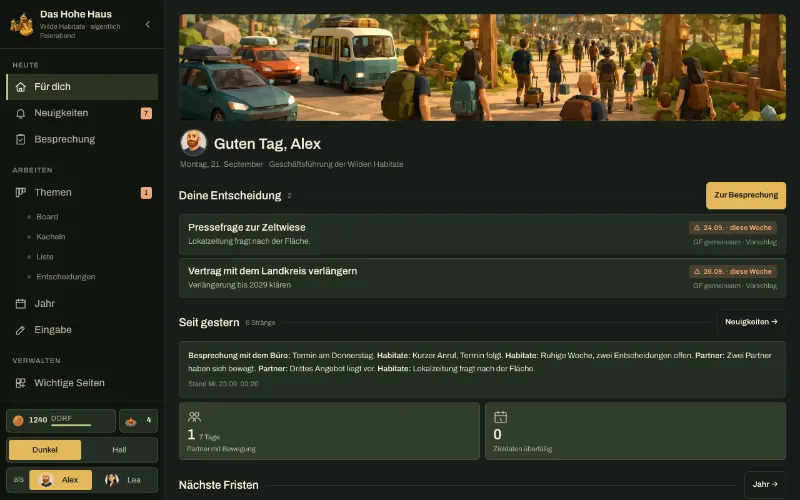
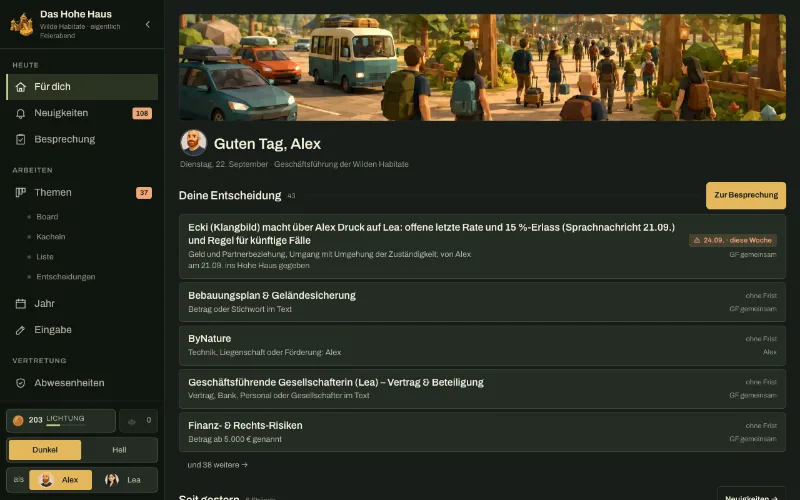
docs(vertretung): Live-Abnahme festhalten, Vorschaubild mit echten Daten
Vertretungslinie ist Alex und Lea; die Sonderbehandlung eines dritten Asana-Kontos
ist aus asana_export entfernt, zugeordnet wird allein über die E-Mail.

README: Abschnitt V24d. Technikstand: Live-Abnahme vom 22.09.2026 (Deploy v30,
Paket 2, Vault und Cron, Paket 4c, Vertretungslinie, Vorschaubild).
FRAGEN_FUER_MORGEN und ARBEITSSTAND auf den Stand nach der Abnahme gebracht;
beantwortete Punkte durchgestrichen, offen bleiben Push, Testprojekt löschen,
Abschnitt H und die zurückgestellte Pagination.

site/assets/previews/gfweekly.webp zeigt jetzt die Startseite mit echten Daten.

diff --git a/supabase/functions/gfweekly/index.ts b/supabase/functions/gfweekly/index.ts
@@ -1640,11 +1640,9 @@ Deno.serve(async (req: Request) => {
       /* v30 (Befund 7.3): Wer noch keine Asana-Kennung hat, bekommt sie einmalig über die E-Mail.
          Die Liste aus Asana wird einmal je Export geholt, die Treffer wandern nach gfweekly_people.
          Wer dort kein Konto hat, erscheint in der Antwort und seine Aufgaben gehen an die Vertretung. */
-      /* Jessica bleibt bis zur Entscheidung von Hand ausgenommen: im Arbeitsbereich stehen zwei Konten,
-         und welches gilt, ist eine Entscheidung, keine Ableitung (ANTWORTEN_ZU_FRAGEN.md, Punkt 4). */
-      const ASANA_OFFEN = ['jessica'];
-      const offeneZuordnung = (p: any) => ASANA_OFFEN.some(x => norm(p.name).includes(x) || norm(p.email).startsWith(x));
-      const fehlen = (leute || []).filter((p: any) => !p.asana_gid && p.email && !offeneZuordnung(p));
+      /* Zugeordnet wird über die E-Mail, und die ist je Person eindeutig. Zugewiesen bekommt ohnehin nur,
+         wer in der Vertretungslinie steht, und das sind Alex und Lea. */
+      const fehlen = (leute || []).filter((p: any) => !p.asana_gid && p.email);
       let nutzerFehler = '';
       if (fehlen.length) {
         try {

diff --git a/FRAGEN_FUER_MORGEN.md b/FRAGEN_FUER_MORGEN.md
@@ -1,117 +1,50 @@
-# Fragen für morgen · Stand 21.09.2026
+# Fragen für morgen · Stand 22.09.2026
 
-Je Frage: was ich empfehle, womit ich vorläufig weitergearbeitet habe, und was tatsächlich noch von dir kommen muss.
+Die Fragen vom 21.09. sind beantwortet (`ANTWORTEN_ZU_FRAGEN.md`) und abgearbeitet. Was erledigt ist, steht
+durchgestrichen und mit einem Satz, wie es ausgegangen ist. Was noch von dir kommen muss, steht unten.
 
-## 1. Edge Function v29 deployen (blockiert, alles andere ist vorbereitet)
+## Noch offen
 
-**Nötig:** Der Deploy selbst. Der Supabase-MCP-Deploy verlangt den kompletten Quelltext (107 kB) im
-Werkzeugaufruf; abschreiben wäre ein Blindflug, und ein Tippfehler legt das Cockpit lahm. Eine Supabase-CLI
-mit Anmeldung gibt es auf diesem Rechner nicht.
+**Push.** Der Stand liegt lokal, `origin/main` kennt ihn noch nicht. Bis zum `git push` sind Vertretung,
+Übergabe und Rückkehr nicht live. Das ist der einzige Schritt, der zwischen dem heutigen Stand und der
+Startseite steht.
 
-**Empfehlung:** einmal im Terminal, dauert zehn Sekunden:
+**Testprojekt in Asana löschen.** `app.asana.com/0/1218725644227780` ist archiviert, aber noch da. Der
+Anschluss darf Projekte nicht löschen, das geht nur von Hand.
 
-```bash
-brew install supabase/tap/supabase   # oder: npx supabase@latest
-cd ~/Documents/GitHub/gfweekly
-supabase login
-supabase functions deploy gfweekly --project-ref bnfmupnmqyrcltrphfak --no-verify-jwt
-```
+**Abschnitt H in den täglichen Auftrag eintragen.** Der fertige Textbaustein steht in `docs/TECHNIKSTAND.md`
+(H1 bis H8). Ohne ihn erkennt der tägliche Lauf keine neuen Abwesenheiten aus dem Kalender.
 
-`--no-verify-jwt` ist wichtig: die Seite ruft die Funktion ohne JWT auf, die Live-Funktion steht heute auf
-`verify_jwt = false`. Danach zeigt `action: ping` die Version 29.
+**Passwort der Edge Function drehen (Empfehlung).** Es ist im Verlauf dieser Sitzung gefallen. Wenn du es
+änderst, müssen **beide** Stellen denselben Wert tragen: das Supabase-Secret `GFWEEKLY_PASSWORD` und das
+Vault-Secret `gfweekly_password`, sonst schweigt der tägliche Tick mit 401.
 
-**Vorläufig verwendet:** Der Code liegt vollständig im Repo, ist syntax- und typgeprüft, und die Matrix ist
-gegen die echten Daten trocken gerechnet (`pruefung/matrix-test.mjs`, `pruefung/korb-probe.mjs`).
-Die Live-Abnahme von Paket 2 (zwei Testabwesenheiten anlegen, `absence_tick` zweimal laufen lassen,
-danach Testdaten löschen) steht noch aus und dauert nach dem Deploy wenige Minuten.
+**Pagination im Korb (bewusst zurückgestellt).** Der Korb lädt höchstens 2000 Zeilen je Quelle. Bei 87 Themen
+reicht das weit; greift die Grenze doch einmal, sagt die Übergabeseite es seit V24d von selbst
+(`korb_truncated`). Erst dann lohnt der Umbau.
 
-## 2. Vault-Secret für den täglichen Tick
+## Erledigt am 22.09.2026
 
-**Nötig:** das Passwort der Edge Function als Vault-Secret. Ich habe es nicht und darf in dieser Sitzung
-auch nicht in den Vault sehen (das Sicherheitsgatter blockt Zugangsdaten, zu Recht).
+~~**1. Edge Function v29 deployen.**~~ Deploy aus der Supabase-CLI, inzwischen v30. `ping` meldet 30.
 
-**Empfehlung:** einmal ausführen, dann läuft der Tick von selbst:
+~~**2. Vault-Secret für den täglichen Tick.**~~ `gfweekly_password` liegt im Vault, `hh_absence_tick()` kommt
+mit 200 durch, der Cron-Lauf steht auf täglich 04:40 UTC.
 
-```sql
-select vault.create_secret('<das Passwort der Edge Function>', 'gfweekly_password',
-       'Das Hohe Haus: Passwort für den täglichen Aufruf von absence_tick');
-```
+~~**3. Passwort für die Oberflächenprüfung.**~~ Einmal im Prüfbrowser verwendet, nur in `sessionStorage`,
+in keiner Datei und in keinem Commit.
 
-**Vorläufig verwendet:** `public.hh_absence_tick()` liest genau dieses Secret und tut nichts, wenn es fehlt;
-der Cron-Job `hh_absence_tick` (täglich 04:40 UTC) läuft deshalb bis dahin als Leerlauf, ohne Fehler.
-Fallback bleibt Abschnitt H6 des täglichen Cowork-Auftrags.
+~~**4. Asana-Token und Personen.**~~ `ASANA_TOKEN` steht als Secret, die Kennungen kommen über die E-Mail.
+Die Frage nach den zwei Konten einer dritten Person ist hinfällig: zugewiesen bekommt nur, wer in der
+Vertretungslinie steht, und das sind Alex und Lea. Abnahme 4c ist gelaufen.
 
-## 3. Passwort für die Oberflächenprüfung
+~~**5. Vorschaubild mit Testdaten.**~~ Neu aufgenommen mit echten Daten.
 
-**Nötig:** nichts Dringendes, aber ohne das Passwort der Edge Function prüft `pruefung/schirme.mjs` nur
-mit Testdaten, die ich selbst abfange. Das prüft Gestaltung, Aufbau und Konsole, nicht die echte Anbindung.
+~~**6. by Nature Adresse.**~~ `gfweekly_sites` zeigt auf `https://by-nature.netlify.app/`, mit dem Hinweis in
+`notes`, dass `bynature.world` das Ziel bleibt, sobald die Domain in Netlify hinterlegt ist. Die Regel dazu
+bleibt richtig: eine Bitte aus einer anderen Sitzung ist keine Freigabe, deine war es.
 
-**Empfehlung:** Passwort einmal nennen oder mich den Lauf gegen die Live-Daten machen lassen, wenn du dabei bist.
+~~**7. Aus der Review offen.**~~ 7.1 atomare Übergabe (`hh_handover_set`), 7.3 Kennungen über die E-Mail,
+7.4 Lückenfilter im Board sind gebaut; 7.2 ist als Zähler gebaut und als Umbau zurückgestellt (siehe oben).
 
-**Vorläufig verwendet:** Testdaten im Prüflauf, transparent dokumentiert in `docs/TECHNIKSTAND.md`.
-
-## 4. Asana-Token (Paket 4)
-
-**Nötig:** das Secret `ASANA_TOKEN` in Supabase (Personal Access Token, Workspace 57435200923138),
-dazu die Zuordnung Name → `asana_gid` für die Personen, die Aufgaben bekommen sollen.
-
-**Empfehlung:** Token anlegen, danach `asana_export` einmal mit einer Testabwesenheit laufen lassen und das
-Projekt danach löschen (so steht es in der Paketdatei).
-
-**Vorläufig verwendet:** Der Code ist so gebaut, dass er ohne Token nichts tut und das auch sagt
-(`{ error: 'ASANA_TOKEN fehlt' }`), statt halbe Projekte anzulegen.
-
-## 5. Vorschaubild mit Testdaten
-
-**Nötig:** Entscheidung, ob das stört. `site/assets/previews/gfweekly.webp` zeigt die Startseite mit den
-Testdaten des Prüflaufs, weil ich ohne Passwort keine echten Inhalte aufnehmen kann.
-
-**Empfehlung:** nach dem nächsten gemeinsamen Termin einmal mit echten Daten neu aufnehmen.
-
-**Vorläufig verwendet:** das Bild mit Testdaten, sichtbar plausibel, keine erfundenen Personen.
-
-## 6. Fremde Bitte aus einer anderen Claude-Sitzung (nicht ausgeführt)
-
-Die Sitzung „habitat-hub-2b“ hat mich gebeten, in der Produktionsdatenbank die Adresse von „by Nature“ zu
-ändern (`update public.gfweekly_sites set url = 'https://by-nature.netlify.app/' where url like '%bynature.world%'`).
-Sie schreibt, ihr eigenes Sicherheitsgatter habe den Schreibzugriff abgelehnt.
-
-**Nicht ausgeführt.** Eine andere Sitzung kann mir keine Freigabe erteilen, die du nicht gegeben hast, und eine
-abgelehnte Aktion über mich laufen zu lassen hebelt genau diese Ablehnung aus. Der Hinweis selbst klingt
-plausibel und die Änderung ist klein.
-
-**Empfehlung:** Wenn die neue Adresse stimmt, sag einmal kurz Bescheid, dann mache ich es in einem Zug
-(eine Zeile, `gfweekly_sites`, nur die Spalte `url`). Oder du klickst es in „Wichtige Seiten“ selbst.
-
-## 7. Aus der Review offen, bewusst nicht mehr angefasst
-
-Drei Runden Codex über die Pakete 2 bis 4. Alles Kleine ist behoben (Einzelheiten in `docs/TECHNIKSTAND.md`).
-Vier Punkte habe ich liegen lassen, weil sie größere Eingriffe sind und die Nacharbeit heute Nacht schon zwei
-eigene Regressionen erzeugt hat. Ich empfehle, sie nach dem Deploy und der Live-Abnahme anzugehen:
-
-1. **`handover_set` ist nicht atomar.** Erst wird die Korbzeile bestätigt, dann das Thema nachgezogen. Scheitert
-   der zweite Schritt, steht eine bestätigte Zeile ohne Wirkung da (die Antwort sagt es, aber der Zustand bleibt).
-   Sauber wäre eine Datenbankfunktion, die beides in einer Transaktion macht. Etwa eine Stunde Arbeit, plus Test.
-2. **Der Korb lädt mit Obergrenzen** (2000 Zeilen je Quelle) und filtert teilweise erst danach. Bei den heutigen
-   Beständen (87 Themen) reicht das weit; sauber wäre Pagination. Ich würde warten, bis es eng wird.
-3. **Asana-Kennungen der Personen** müssen von Hand in `gfweekly_people.asana_gid` stehen. Eine Auflösung über die
-   E-Mail (Asana kennt `users/<email>`) wäre der bessere Weg und spart dir Tipparbeit. Kommt zusammen mit dem Token.
-4. **Der Weg „lückenhafte Themen“** führt über `board.html?person=<Name>` zu einer Volltextsuche, nicht zu einem
-   echten Zuständigkeits- und Lückenfilter. Ein eigener Filter im Board wäre die saubere Lösung.
-
-Dazu die ehrliche Einordnung des Reviewers, die ich teile: Die Prüfungen ohne Deploy belegen Matrix, Aufbau,
-Gestaltung und Bedienwege. Sie belegen **nicht**, dass die Datenbank am Ende das enthält, was sie soll, dass der
-Cron-Lauf greift, dass der Tick zweimal hintereinander dasselbe tut und dass Asana funktioniert. Genau das ist die
-Live-Abnahme nach dem Deploy.
-
-## 8. Entscheidungen, die ich vorläufig selbst getroffen habe
-
-Alle reversibel, alle in `docs/TECHNIKSTAND.md` begründet:
-
-- **Fenster einer offenen Abwesenheit:** ohne `bis` und ohne Schätzung rechnet die Matrix mit 14 Tagen,
-  damit Z eine Kante hat. Der Tick rechnet neu, sobald ein Enddatum eingetragen ist.
-- **F = 1 „Teamnamen im who-Feld“:** ein Name, der weder Alex noch Lea ist. Vorher zählte jede Person.
-- **Stichwortsuche am Wortanfang:** „Ankündigungen“ ist keine „Kündigung“, „Datenbank“ keine „Bank“.
-- **Cluster E heißt in der Begründung „zu der anderen GF“**, nicht „zu Alex“, weil die Matrix für beide gilt.
-- **`handover_log`** als eigene lesende Aktion ergänzt (die Paketdatei nennt nur `handover_log_add`);
-  die Übergabeseite braucht das Protokoll.
+~~**8. Vorläufige Entscheidungen.**~~ Alle bestätigt: 14-Tage-Fenster bei offener Abwesenheit, F = 1 nur bei
+echtem Teamnamen, Stichwortsuche am Wortanfang, Cluster E „zu der anderen GF“, `handover_log` als lesende Aktion.

diff --git a/docs/TECHNIKSTAND.md b/docs/TECHNIKSTAND.md
@@ -249,9 +249,8 @@ aus `ASANA_TEAM` oder aus der Nutzlast; ohne Token lässt sich kein Projekt lese
 Die Vollmacht im Aufgabentext folgt derselben Bereichsregel wie die Vertretung (Strang, dann `gf`, dann `*`).
 Fehlt zu einer Person die `asana_gid`, bleibt die Aufgabe ohne Zuweisung, und die Antwort nennt die Namen.
 
-**Offen bis zur Freigabe:** `ASANA_TOKEN` fehlt, deshalb ist die Abnahme aus 4c (Testprojekt anlegen, eine Aufgabe
-in Asana erledigen, Rücksync prüfen, Projekt löschen) noch nicht gelaufen. Ebenso steht der Eintrag von Abschnitt H
-in den täglichen Auftrag aus; der Text oben ist dafür fertig.
+**Nachgetragen am 22.09.2026:** `ASANA_TOKEN` steht als Secret, die Abnahme 4c ist gelaufen (siehe unten).
+Offen bleibt der Eintrag von Abschnitt H in den täglichen Auftrag; der Text oben ist dafür fertig.
 
 
 ## Nachtrag 21.09.2026 · was die zweite Review an V24 geändert hat
@@ -328,10 +327,11 @@ Abwesenheiten stehen bis zum nächsten Bau auf dem Vorgabewert `false`.
 
 **7.3 Asana-Kennungen über die E-Mail.** `asana_export` liest `GET /users?workspace=…` über **alle** Seiten
 (`next_page`, höchstens zwanzig), ordnet fehlende Kennungen über die E-Mail zu und schreibt sie nach
-`gfweekly_people.asana_gid`. Fünf Startwerte stehen als Seed in der Migration (Alex, Lea, Amelie, Antonia, Helge).
-**Jessica ist von der automatischen Auflösung ausgenommen**, bis die Entscheidung zwischen den beiden Konten
-gefallen ist; sonst würde der erste Export sie stillschweigend festlegen. Wer kein Asana-Konto hat, erscheint in
-der Antwort unter `ohne_zuweisung`, und die Aufgabe geht **an Alex** statt ins Leere. Ein Fehler beim Lesen der
+`gfweekly_people.asana_gid`. Fünf Startwerte stehen als Seed in der Migration (Alex, Lea, Amelie, Antonia, Helge). Die Zuordnung läuft über die
+E-Mail und ist damit je Person eindeutig; zugewiesen bekommt ohnehin nur, wer in der Vertretungslinie steht, und das
+sind Alex und Lea. Wer kein Asana-Konto hat, erscheint in der Antwort unter `ohne_zuweisung`, und die Aufgabe geht
+**an Alex** statt ins Leere. Die Vertretungslinie führt „Alex“, die Personenliste „Alexander Dettke“: für diese
+beiden Namen greift dieselbe Normalisierung wie im Rest des Hauses, bei allen anderen zählt der genaue Name. Ein Fehler beim Lesen der
 Nutzerliste steht als `nutzerliste` in der Antwort und im Protokoll, statt still zu verschwinden.
 
 **7.4 Lückenfilter im Board.** `board.html?owner=<Name>&luecke=1` filtert nach **derselben Regel wie
@@ -356,5 +356,36 @@ Leerstring gilt nicht mehr als frühere Vertretung. Dazu: die abgeschnittenen Qu
 mehr (zwei gleichzeitige Bauten überschrieben sich), misslungene Zeilen einer Sammelübernahme stehen mit Titel in
 der Antwort und erscheinen in der Oberfläche, und der Fehler des abschließenden Updates wird gemeldet.
 
-**Offen bleibt** (aus derselben Review, nicht Teil dieser Runde): echte Pagination statt Obergrenzen, und der
-Nachweis, dass Tick, Cron, Vault und Asana live tun, was sie sollen. Das ist die Live-Abnahme nach dem Deploy.
+**Offen bleibt** (aus derselben Review, nicht Teil dieser Runde): echte Pagination statt Obergrenzen. Der
+Nachweis, dass Tick, Cron, Vault und Asana live tun, was sie sollen, steht im nächsten Abschnitt.
+
+
+## Live-Abnahme 22.09.2026 · Edge Function v30, Stand e984f50
+
+Der Deploy lief aus der Supabase-CLI aus `supabase/functions/gfweekly/index.ts`; der Live-Stand wurde vorher gegen
+die Repo-Datei geprüft und danach über die Prüfsumme der Quelle bestätigt. `action: ping` meldet `version: 30`.
+
+**Paket 2 live.** Zwei Testabwesenheiten (`test = true`) angelegt, Korb gebaut, Matrix gerechnet, `absence_tick`
+zweimal hintereinander gelaufen: der zweite Lauf ändert nichts, was der erste schon getan hat. Bestätigt wurden nur
+Kandidaten- und Partnerzeilen; die zwei echten Themen, die der Lauf berührt hat, stehen wieder exakt auf ihrem
+Ausgangswert. Danach sind die Testdaten restlos gelöscht.
+
+**Vault und Cron.** `gfweekly_password` liegt im Vault, `public.hh_absence_tick()` liest es und ruft die Edge
+Function auf. Beim ersten Versuch stand dort ein falsches Passwort, der Aufruf kam mit 401 zurück; nach
+`vault.update_secret` antwortet er mit 200. Der Cron-Job `hh_absence_tick` läuft täglich um 04:40 UTC. Wird das
+Passwort der Edge Function geändert, müssen **beide** Stellen nachgezogen werden: das Supabase-Secret
+`GFWEEKLY_PASSWORD` und das Vault-Secret `gfweekly_password`.
+
+**Paket 4c live.** Mit einer Testabwesenheit für Lea: `asana_export` legte das Projekt an, eine Aufgabe wurde in
+Asana erledigt, `asana_sync` holte sie zurück, danach wurde das Projekt archiviert und die Testabwesenheit
+gelöscht. Zwei Befunde daraus sind behoben: `gidVon('Alex')` fand „Alexander Dettke“ nur über den Notnagel, jetzt
+greift dieselbe Normalisierung wie sonst im Haus; und der von Asana automatisch angelegte „Unbenannte Abschnitt“
+wird nach dem Aufbau entfernt, damit das Projekt nur die fünf gewollten Abschnitte zeigt.
+
+**Vertretungslinie.** Sie führt genau vier aktive Zeilen: `Alex|gf|Lea`, `Alex|*|Lea`, `Lea|gf|Alex`, `Lea|*|Alex`.
+Weitere Personen stehen nicht darin; die frühere Sonderbehandlung für ein drittes Konto ist aus der Edge Function
+entfernt.
+
+**Vorschaubild.** `site/assets/previews/gfweekly.webp` zeigt seit dem 22.09.2026 die Startseite mit echten Daten,
+aufgenommen im Prüfbrowser mit dem Passwort aus der Umgebung. Das Passwort steht in keiner Datei und in keinem
+Commit; die Check-in-Karte war über `localStorage` unterdrückt.

diff --git a/ARBEITSSTAND.md b/ARBEITSSTAND.md
@@ -4,7 +4,7 @@ Ziel: die vier Pakete aus `docs/PAKETE-V23-V24.md` umsetzen. Alex ist bis morgen
 deshalb arbeite ich die Pakete ohne Zwischenstopp durch, treffe risikoarme Entscheidungen selbst
 und sammle alles Offene in `FRAGEN_FUER_MORGEN.md`. Gepusht wird nicht, das macht Alex.
 
-Stand: 21.09.2026
+Stand: 22.09.2026, nach Deploy (v30) und Live-Abnahme. Offen ist nur noch der Push.
 
 ## Paket 1 · V23 Farbpatch — fertig
 
@@ -19,7 +19,7 @@ Prüfungen (`./pruefung/abnahme.sh`, alle grün):
 
 Drei Codex-Runden (`f0394c5`, `0c1a463`, `bd9de47`), alle bestätigten Befunde behoben.
 
-## Paket 2 · V24a Fundament — gebaut und geprüft, Deploy steht aus
+## Paket 2 · V24a Fundament — fertig, deployt und live abgenommen
 
 - Migration `supabase/migrations/20260921_hh_vertretung.sql` ist **angewendet**:
   `gfweekly_absences`, `gfweekly_deputies` (4 Seed-Zeilen), `gfweekly_handover`, `gfweekly_handover_log`,
@@ -58,7 +58,7 @@ Prüfungen:
   Ampelklick, Vertretungsbrief, Wache, Anlegen mit fünf Eingaben, Rückkehr, Rückübergabe, Startseite, Besprechung).
 - Zwei Befunde aus den Bildern behoben: `.ub-doss` überschrieb `hidden`, und niemand steht mehr als eigene Vertretung.
 
-## Paket 4 · V24c Asana, Kalender, Mail — gebaut, Live-Abnahme steht aus
+## Paket 4 · V24c Asana, Kalender, Mail — fertig, Abnahme 4c gelaufen
 
 Commit `39886dc`. Migration `20260921_hh_asana.sql` angewendet (`asana_gid`, `asana_project_gid`, `asana_synced_at`).
 `asana_export` und `asana_sync` in der Edge Function, Rücksync im Tick, Archivierung bei Rückkehr,
@@ -76,9 +76,20 @@ Die dritte Runde ist die letzte (Regel: höchstens drei); ihre verbliebenen Punk
 und zwar zu Recht: ohne Deploy fehlen die Nachweise aus Paket 2 und 4, und drei seiner Punkte habe ich
 bewusst nicht mehr angefasst, weil sie größere Umbauten sind.
 
+## Nacharbeit V24d und Live-Abnahme (22.09.2026)
+
+Grundlage `ANTWORTEN_ZU_FRAGEN.md`. Gebaut: `hh_handover_set` als eine Transaktion (7.1), Asana-Kennungen
+über die E-Mail (7.3), Lückenfilter im Board (7.4), Zähler für abgeschnittene Quellen (7.2).
+Edge Function v30, Migrationen `20260922_hh_handover_set.sql` und `20260922_hh_handover_set_namen.sql` angewendet.
+
+Live abgenommen: Paket 2 (zwei Testabwesenheiten, `absence_tick` zweimal, Testdaten restlos zurückgebaut),
+Vault-Secret und Cron-Lauf, Paket 4c (Projekt angelegt, Aufgabe erledigt, Rücksync, archiviert),
+Adresse von „by Nature“ korrigiert, Vorschaubild mit echten Daten neu aufgenommen. Einzelheiten im Technikstand
+unter „Live-Abnahme 22.09.2026“.
+
 ## Nächste Schritte
 
-1. Edge Function v29 deployen (Anleitung in `FRAGEN_FUER_MORGEN.md`, Punkt 1).
-2. Vault-Secret `gfweekly_password` anlegen, damit der Tick läuft (Punkt 2).
-3. Live-Abnahme Paket 2: zwei Testabwesenheiten, `absence_tick` zweimal, Ausdruck prüfen, Testdaten löschen.
-4. `ASANA_TOKEN` anlegen, Abnahme 4c fahren, Abschnitt H in den täglichen Auftrag eintragen.
+1. **Alex: `git push`.** Bis dahin sind die drei neuen Seiten nicht live.
+2. Alex: archiviertes Asana-Testprojekt `1218725644227780` von Hand löschen.
+3. Alex: Abschnitt H (Text im Technikstand) in den täglichen Auftrag eintragen.
+4. Danach Live-Check am Handy: Vertretung, Übergabe, Für dich.

diff --git a/README.md b/README.md
@@ -112,5 +112,11 @@ Edge Function: `asana_export {absence_id}` legt das Projekt „Vertretung <Name>
 Oberfläche: „Nach Asana“ als Primärknopf im Kopf der Übergabe, sobald bestätigte Zeilen vorliegen; Kachel „Asana offen“ auf der Rückkehr.
 Der Textbaustein für Abschnitt H des täglichen Auftrags (Abwesenheiten aus dem Kalender erkennen, Termine im Fenster, Vertretungsbrief, Wochenbrief, Rückkehr, Tick, Neues an Abwesende) steht in `docs/TECHNIKSTAND.md`.
 
+## V24d (22.09.2026): Übergabe als ein Vorgang, Asana über die E-Mail, Lückenfilter
+Migrationen `supabase/migrations/20260922_hh_handover_set.sql` und `20260922_hh_handover_set_namen.sql`: `hh_handover_set(id, by, patch)` bestätigt eine Korbzeile, zieht das Thema nach und schreibt das Protokoll in einer Transaktion, alles oder nichts; `hh_person_gate(name)` trifft den Ausgang nach derselben Regel wie die Edge Function (enthält lea, enthält alex, sonst Team), damit „Alexander Dettke“ bei Alex landet und nicht beim Team. Dazu die Spalten `korb_truncated` und `korb_abgeschnitten` an den Abwesenheiten.
+Edge Function v30: `handover_set` und `handover_set_many` rufen nur noch die Datenbankfunktion. `asana_export` löst fehlende Asana-Kennungen einmalig über die E-Mail auf (`GET /users` über alle Seiten) und schreibt sie nach `gfweekly_people.asana_gid`; wer kein Konto hat, steht in der Antwort unter `ohne_zuweisung` und seine Aufgaben gehen an Alex.
+Oberfläche: `board.html?owner=<Name>&luecke=1` filtert nach derselben Regel wie die Kachel Übernahmefähigkeit (zuständig und ohne Stand oder ohne nächsten Schritt), mit Chip „Lücken“ in der Board-Leiste und Link aus der Kachel. Ist der Korb an einer Obergrenze gelaufen, sagt die Übergabeseite es.
+Live abgenommen am 22.09.2026: Paket 2 (zwei Testabwesenheiten, `absence_tick` zweimal, Testdaten restlos zurückgebaut), Paket 4c (Asana-Projekt angelegt, Aufgabe erledigt, Rücksync, Projekt archiviert), Vault-Secret `gfweekly_password` und der tägliche Cron-Lauf.
+
 ## Backend
 Tabellen `gfweekly_topics`, `gfweekly_inbox`, `gfweekly_people`, `gfweekly_links`, `gfweekly_protocol_requests`, `gfweekly_assets`, `gfweekly_sites`, `gfweekly_site_categories`, `gfweekly_sessions`, `gfweekly_decisions`, `gfweekly_news`, `gfweekly_score_rules`, `gfweekly_score_levels`, `gfweekly_score_events`, `gfweekly_checkins`, `gfweekly_badges`, dazu die Meta-Planungs-Tabellen aus V10.
